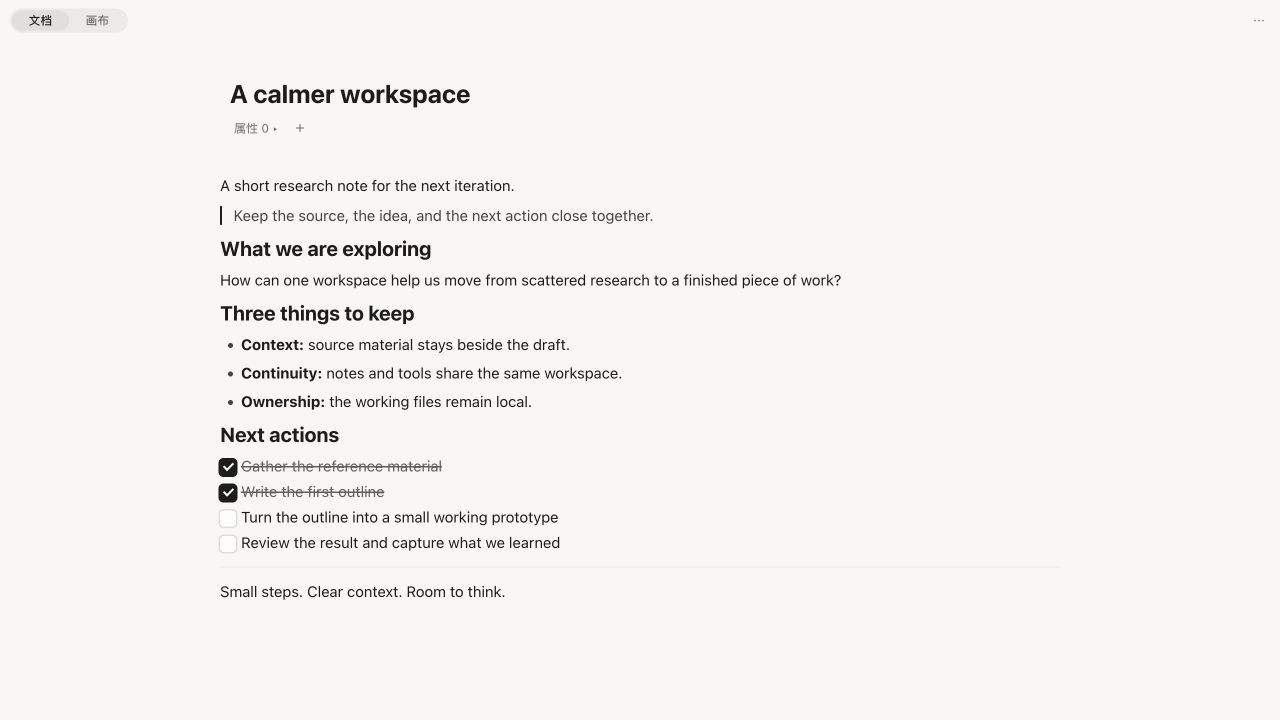
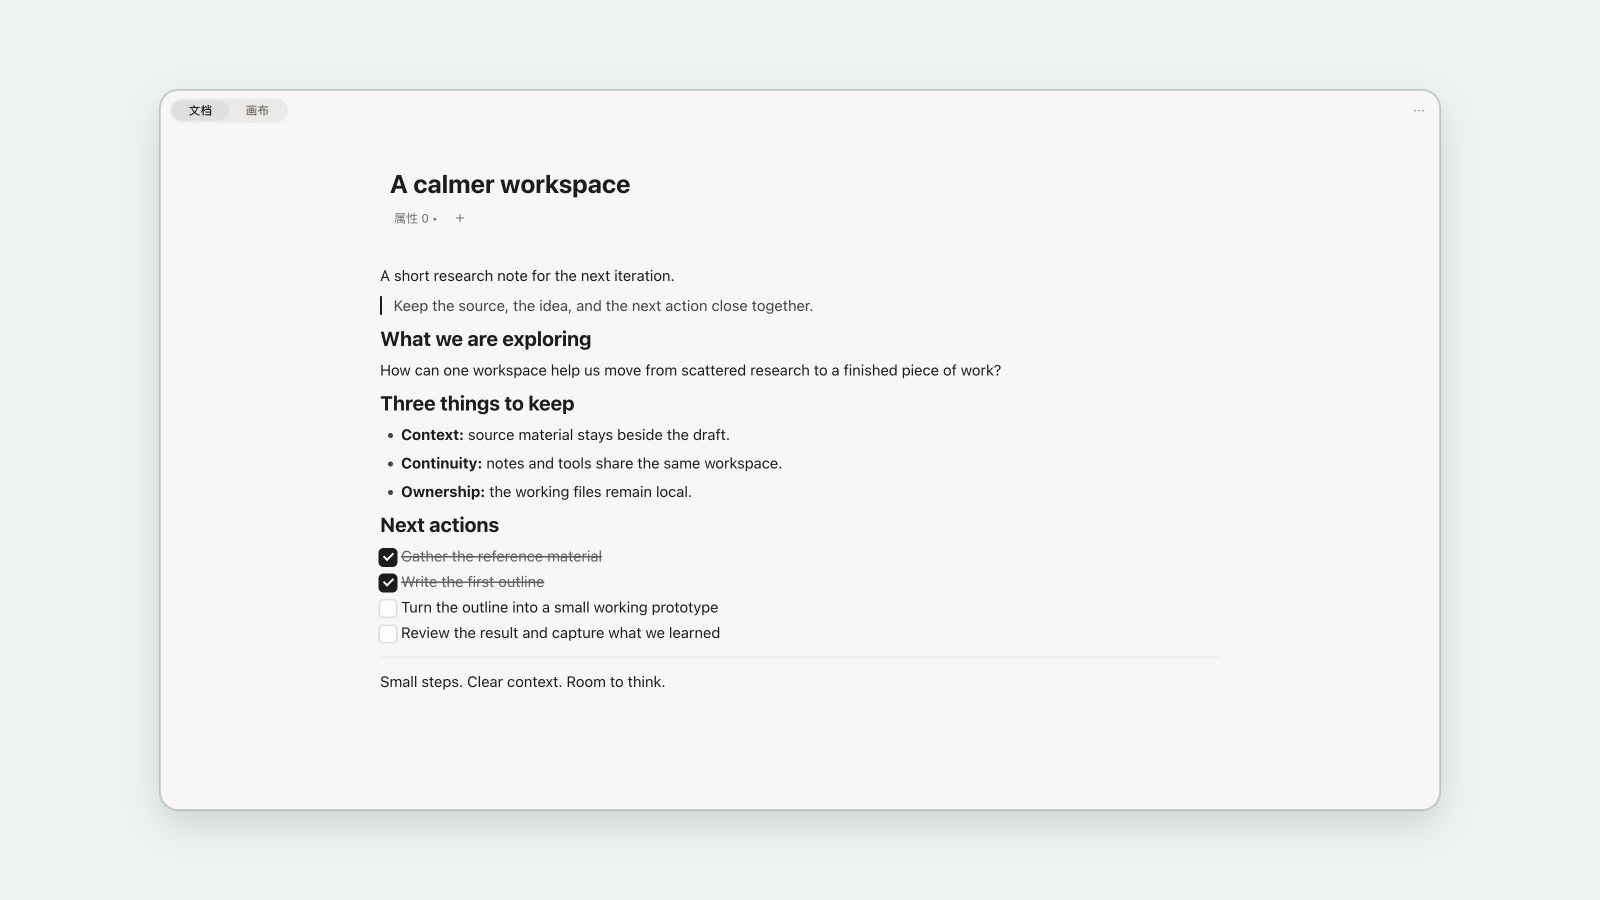
docs: clean repository showcase imagery

diff --git a/docs/showcase/social-preview.html b/docs/showcase/social-preview.html
@@ -1,4 +1,83 @@
 <!doctype html>
-<html lang="en"><head><meta charset="UTF-8"><meta name="viewport" content="width=device-width,initial-scale=1"><title>Forsion social preview</title><style>
-*{box-sizing:border-box}html,body{margin:0;width:1280px;height:640px;overflow:hidden}body{font-family:-apple-system,BlinkMacSystemFont,'Segoe UI',Arial,sans-serif;background:#f1f5f1;color:#1c352b}.cover{width:1280px;height:640px;padding:58px 62px;position:relative;overflow:hidden}.brand{display:flex;align-items:center;gap:12px;font-size:29px;font-weight:650;letter-spacing:-1px}.brand img{width:34px;height:38px;object-fit:contain}.copy{position:relative;z-index:1;width:475px}h1{font-size:58px;line-height:1.08;letter-spacing:-2.7px;margin:69px 0 24px;font-weight:650}p{font-size:22px;line-height:1.45;max-width:360px;color:#52695d;margin:0}.address{position:absolute;left:62px;bottom:55px;font-size:17px;color:#52695d}.product{position:absolute;left:580px;top:135px;width:970px;border-radius:15px;border:1px solid #c4cec6;box-shadow:0 28px 68px #214b2e22;overflow:hidden;background:#f6f4ef}.product img{display:block;width:100%;height:auto}.rootline{position:absolute;right:50px;top:57px;font-size:16px;color:#52695d}
-</style></head><body><main class="cover"><div class="copy"><div class="brand"><img src="/repo/.github/assets/showcase/logo.svg" alt="">Forsion</div><h1>Your local<br>AI workbench.</h1><p>Bring agents, knowledge, and everyday work together.</p></div><div class="product"><img src="/repo/.github/assets/showcase/workbench.png" alt="Forsion desktop with an Agent conversation and a live project preview"></div><span class="rootline">A second brain you own.</span><span class="address">forsion.net</span></main></body></html>
+<html lang="en">
+  <head>
+    <meta charset="UTF-8" />
+    <meta name="viewport" content="width=1280, initial-scale=1" />
+    <title>Forsion social preview</title>
+    <style>
+      * { box-sizing: border-box; }
+      html, body { width: 1280px; height: 640px; margin: 0; overflow: hidden; }
+      body { background: #f1f5f1; }
+      canvas { display: block; width: 1280px; height: 640px; }
+    </style>
+  </head>
+  <body>
+    <canvas width="1280" height="640" aria-label="Forsion GitHub social preview"></canvas>
+    <script>
+      const canvas = document.querySelector("canvas");
+      const context = canvas.getContext("2d");
+      const logo = new Image();
+      const product = new Image();
+      logo.src = "/repo/.github/assets/showcase/logo.svg";
+      product.src = "/repo/.github/assets/showcase/workbench.png";
+
+      Promise.all([logo.decode(), product.decode()]).then(() => {
+        context.fillStyle = "#f1f5f1";
+        context.fillRect(0, 0, 1280, 640);
+
+        context.drawImage(logo, 62, 56, 34, 38);
+        context.fillStyle = "#1c352b";
+        context.font = "650 29px system-ui, sans-serif";
+        context.fillText("Forsion", 108, 86);
+
+        context.textAlign = "right";
+        context.fillStyle = "#52695d";
+        context.font = "400 16px system-ui, sans-serif";
+        context.fillText("A second brain you own.", 1218, 74);
+        context.textAlign = "left";
+
+        context.fillStyle = "#1c352b";
+        context.font = "650 58px system-ui, sans-serif";
+        context.fillText("Your local", 62, 218);
+        context.fillText("AI workbench.", 62, 281);
+
+        context.fillStyle = "#52695d";
+        context.font = "400 22px system-ui, sans-serif";
+        context.fillText("Bring agents, knowledge, and", 62, 339);
+        context.fillText("everyday work together.", 62, 371);
+
+        context.save();
+        context.shadowColor = "rgba(28, 53, 43, 0.16)";
+        context.shadowBlur = 32;
+        context.shadowOffsetY = 14;
+        context.fillStyle = "#eef3ef";
+        context.beginPath();
+        context.roundRect(572, 142, 646, 364, 15);
+        context.fill();
+        context.restore();
+
+        context.save();
+        context.beginPath();
+        context.roundRect(572, 142, 646, 364, 15);
+        context.clip();
+        context.drawImage(product, 572, 142, 646, 364);
+        context.restore();
+
+        context.strokeStyle = "rgba(31, 53, 43, 0.22)";
+        context.lineWidth = 1;
+        context.beginPath();
+        context.roundRect(572.5, 142.5, 645, 363, 14.5);
+        context.stroke();
+
+        context.fillStyle = "#52695d";
+        context.font = "400 17px system-ui, sans-serif";
+        context.fillText("forsion.net", 62, 585);
+
+        canvas.toBlob(async blob => {
+          const response = await fetch("/capture/social-preview.png", { method: "POST", body: blob });
+          document.title = response.ok ? "saved:social-preview" : "failed:social-preview";
+        }, "image/png");
+      });
+    </script>
+  </body>
+</html>

diff --git a/.github/assets/showcase/README.md b/.github/assets/showcase/README.md
@@ -1,20 +1,20 @@
 # Showcase assets / 展示素材
 
-These assets support the English and Chinese repository READMEs and the Forsion website. Product screenshots and demonstration data are described separately.
+These assets support the English and Chinese repository READMEs and GitHub repository presentation. Product screenshots and demonstration data are described separately.
 
-这些素材用于中英文 README 与官网展示。桌面截图和样例数据均在展示处注明，不表示所有界面来自同一个版本。
+这些素材用于中英文 README 与 GitHub 仓库展示。桌面截图和样例数据均在展示处注明，不表示所有界面来自同一个版本。
 
 | Asset / 素材 | Source / 来源 |
 | --- | --- |
-| `workbench.png` | Unmodified desktop screenshot from `Forsion-Website/assets/screenshots/coding.png`, website source commit `632eae8`. / 原官网保留的真实桌面截图，展示智能体对话与赛车项目预览，未改动界面内容。 |
-| `calendar.png` | Unmodified desktop screenshot from `Forsion-Website/assets/screenshots/calendar.png`, website source commit `632eae8`. / 原官网真实日历截图，未改动界面内容。 |
-| `notes.png` | Production `UnifiedPage` renderer at Genesis source commit `172d9bae`, using the public fixture in `docs/showcase/note-sample.md`. / 真实笔记编辑器渲染的公开样例，使用内存桥；不是真实用户资料或一次 AI 执行的产出。 |
+| `workbench.png` | Desktop capture from `Forsion-Website/assets/screenshots/coding.png`, placed on a clean 1600 × 900 presentation canvas. The crop removes desktop pixels outside the app window without changing the UI. / 来自原官网的真实桌面截图；仅去除应用窗口外的桌面杂边，并放入 1600 × 900 展示画布，界面内容未改动。 |
+| `calendar.png` | Desktop capture from `Forsion-Website/assets/screenshots/calendar.png`, cleaned and framed on the same 1600 × 900 presentation canvas. / 来自原官网的真实日历截图；仅清理窗口外杂边，并使用同一 1600 × 900 展示画布。 |
+| `notes.png` | Production `UnifiedPage` renderer at Genesis source commit `172d9bae`, using the public fixture in `docs/showcase/note-sample.md`, presented on the same 1600 × 900 canvas. / 真实笔记编辑器渲染的公开样例；不是真实用户资料或一次 AI 执行的产出。 |
 | `logo.svg` | Existing Forsion logo from `Forsion-Website/assets/Forsion-LOGO3.svg`. / 复用现有扶桑标志。 |
-| `social-preview.png` | Browser export of `docs/showcase/social-preview.html` at 1280 × 640 pixels. / 分享封面源文件的浏览器截图导出。 |
+| `social-preview.png` | Lossless 1280 × 640 browser-canvas export of `docs/showcase/social-preview.html`; the complete product frame stays inside the safe area. / `docs/showcase/social-preview.html` 的无损画布导出；产品截图完整位于安全区内。 |
 
-For GitHub Social Preview, upload `social-preview.png` in the repository settings. The website uses the same image as `public/showcase-social.png`; Vite copies it to `/showcase-social.png`, outside the indefinitely cached asset directory.
+For GitHub Social Preview, upload `social-preview.png` in the repository settings.
 
-GitHub 的 Social Preview 可使用 `social-preview.png`。官网使用相同图片，构建输出到 `/showcase-social.png`，避开带 immutable 缓存的资源目录，供 Open Graph 与 Twitter 分享卡片引用。
+GitHub 的 Social Preview 可使用 `social-preview.png`。
 
 The proposed GitHub About text is: **Your local AI workbench. Bring agents, knowledge, and everyday work together.** Repository settings are not changed by this branch.
 

diff --git a/README.md b/README.md
@@ -18,10 +18,9 @@ Bring agents, knowledge, and everyday work together.
 </div>
 
 <p align="center">
-  <img src="./.github/assets/showcase/workbench.png" alt="Coding Studio with an Agent conversation and a racing webpage preview" width="100%" />
+  <img src="./.github/assets/showcase/workbench.png" alt="Coding Studio with an Agent conversation and a racing webpage preview" width="920" />
+  <br><sub>Real desktop capture: the Agent conversation and project preview share one workspace.</sub>
 </p>
-
-*Interface examples: Coding Studio and Calendar use desktop screenshots; Note shows sample data in the actual editor.*
 
 ## Three ways to use Forsion
 
@@ -30,7 +29,8 @@ Bring agents, knowledge, and everyday work together.
 Ask an Agent to turn source files into a local Markdown note, within the access you authorize. Continue editing and linking it in **Note (Amadeus)**.
 
 <p align="center">
-  <img src="./.github/assets/showcase/notes.png" alt="A sample note rendered in Forsion's Note editor" width="100%" />
+  <img src="./.github/assets/showcase/notes.png" alt="A sample note rendered in Forsion's Note editor" width="820" />
+  <br><sub>The real Note editor with public sample content.</sub>
 </p>
 
 ### Build a webpage from an idea
@@ -42,7 +42,8 @@ In **Coding Studio**, turn an idea into a local webpage project with an Agent. T
 View dates and to-dos from your note databases in **Calendar**. Configure authorized follow-up tasks in **Automation** and receive their results in **Inbox**.
 
 <p align="center">
-  <img src="./.github/assets/showcase/calendar.png" alt="Calendar showing dated records and tasks from the workspace" width="100%" />
+  <img src="./.github/assets/showcase/calendar.png" alt="Calendar showing dated records and tasks from the workspace" width="820" />
+  <br><sub>Real desktop capture: dates, to-dos, and database records in one view.</sub>
 </p>
 
 ## Download and start

diff --git a/README.zh-CN.md b/README.zh-CN.md
@@ -18,10 +18,9 @@
 </div>
 
 <p align="center">
-  <img src="./.github/assets/showcase/workbench.png" alt="编码工作室中的 Agent 对话与赛车网页预览" width="100%" />
+  <img src="./.github/assets/showcase/workbench.png" alt="编码工作室中的 Agent 对话与赛车网页预览" width="920" />
+  <br><sub>真实桌面截图：Agent 对话与项目预览位于同一个工作区。</sub>
 </p>
-
-*界面示例：编码与日历为桌面截图，笔记为真实编辑器中的样例数据。*
 
 ## 用 Forsion 完成三件事
 
@@ -30,7 +29,8 @@
 授权 Agent 读取资料，把它们整理成本地 Markdown 笔记。在 **Note（Amadeus 笔记）** 中继续编辑，补充双链。
 
 <p align="center">
-  <img src="./.github/assets/showcase/notes.png" alt="Forsion Note 编辑器中呈现的样例笔记" width="100%" />
+  <img src="./.github/assets/showcase/notes.png" alt="Forsion Note 编辑器中呈现的样例笔记" width="820" />
+  <br><sub>真实 Note 编辑器，内容使用公开样例数据。</sub>
 </p>
 
 ### 从一个想法，做出可预览的网页
@@ -42,7 +42,8 @@
 在**日历**中汇总笔记多维表里的日期和待办。在**自动化**中配置并授权后续任务，让结果送到**收件箱**。
 
 <p align="center">
-  <img src="./.github/assets/showcase/calendar.png" alt="日历空间中来自工作区的日期与任务记录" width="100%" />
+  <img src="./.github/assets/showcase/calendar.png" alt="日历空间中来自工作区的日期与任务记录" width="820" />
+  <br><sub>真实桌面截图：日期、待办与多维表记录集中显示。</sub>
 </p>
 
 ## 下载与开始使用
